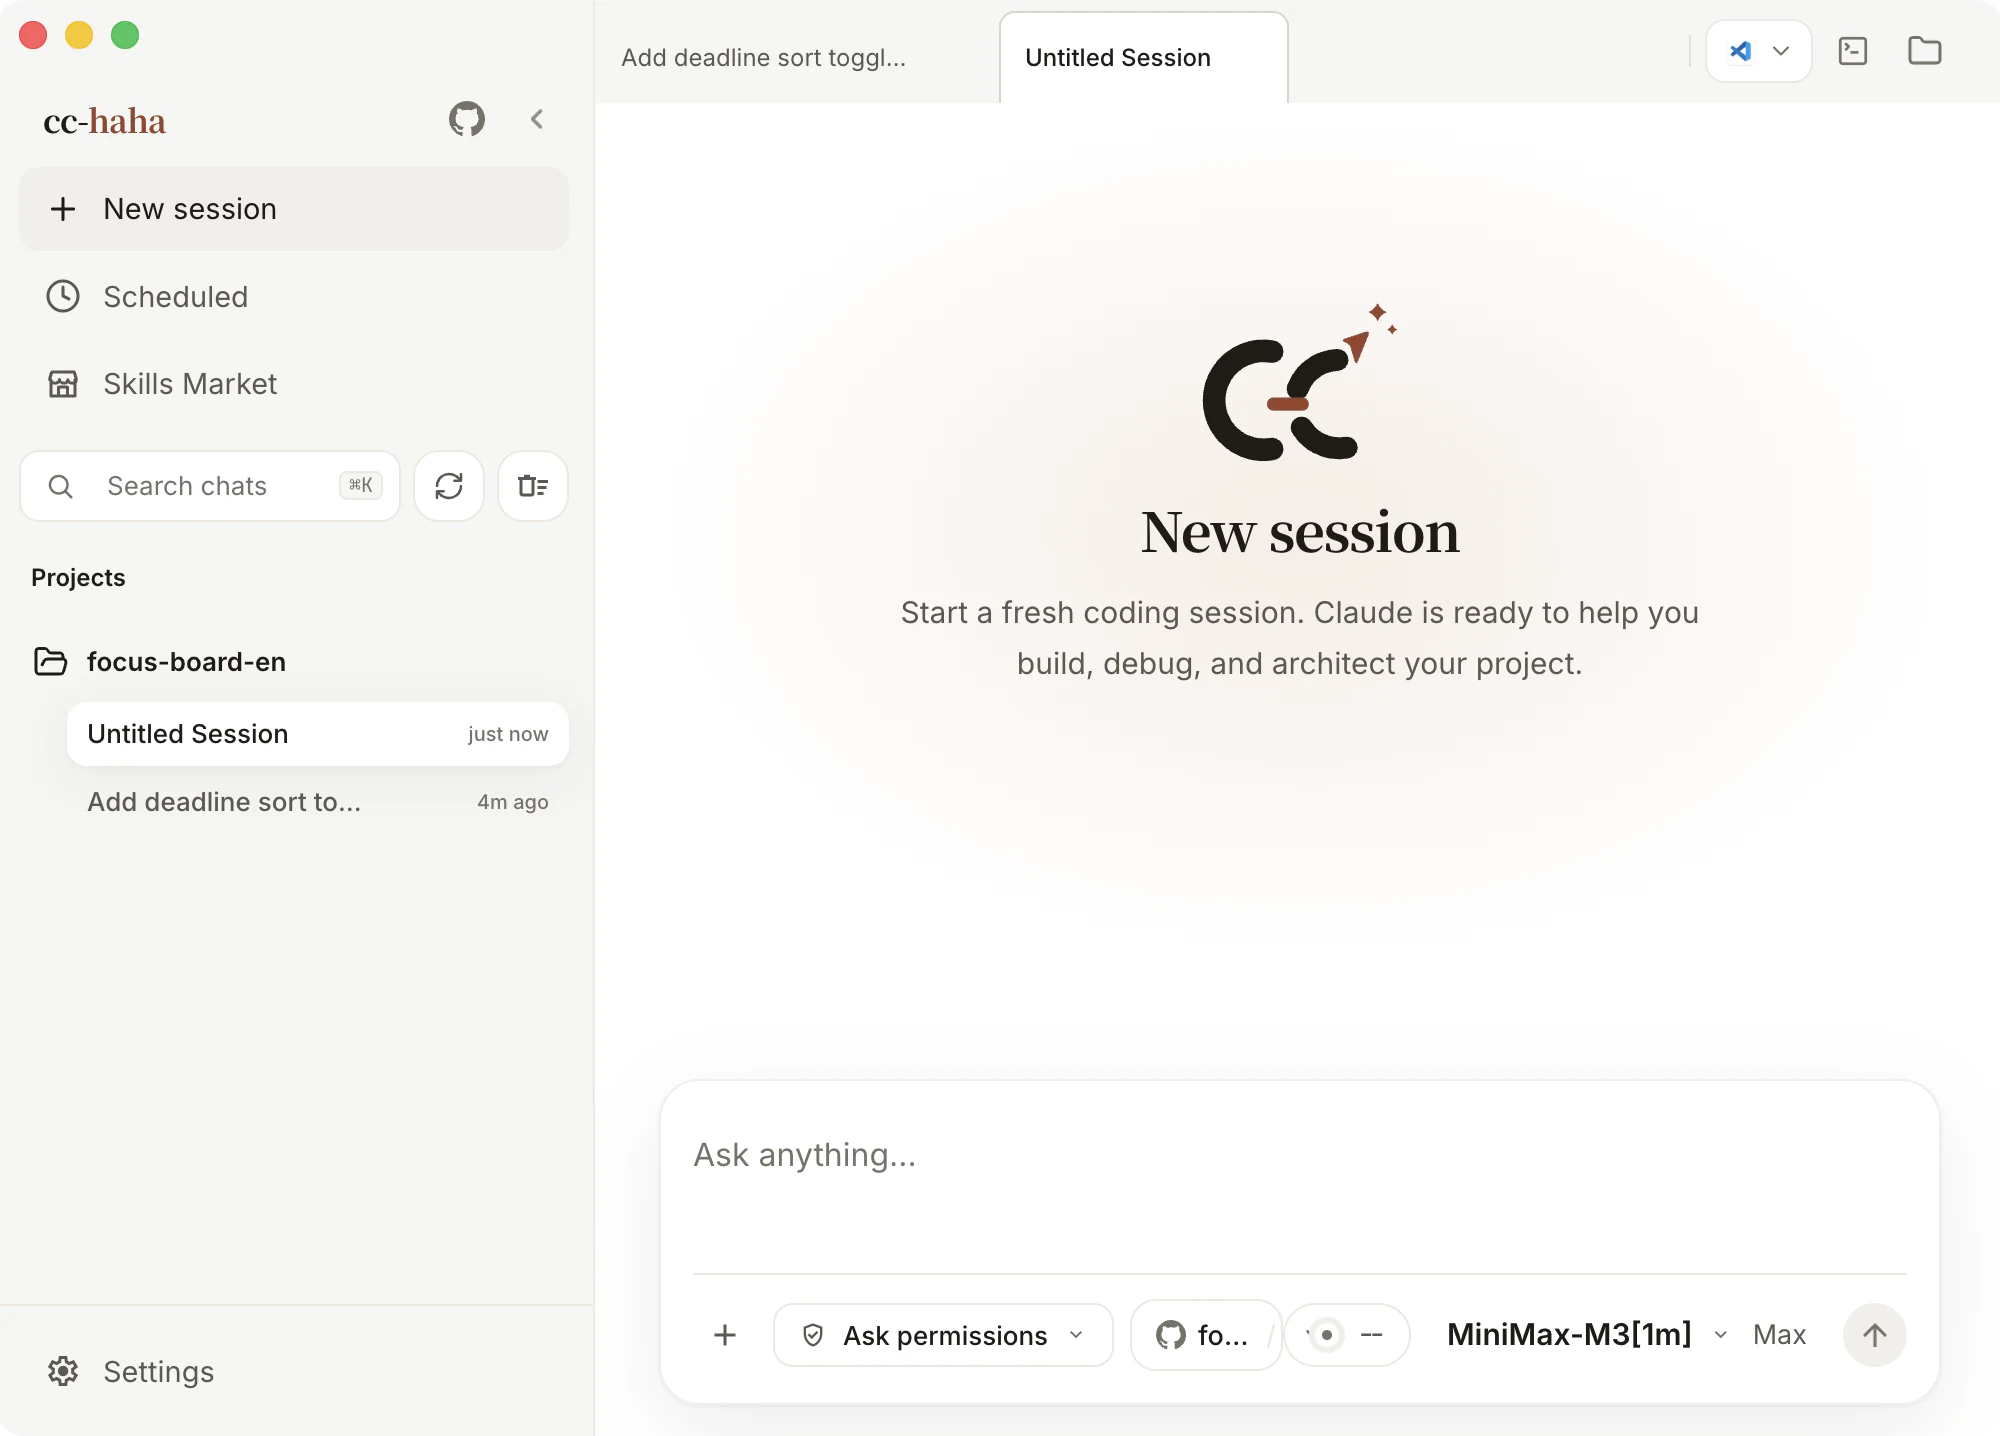
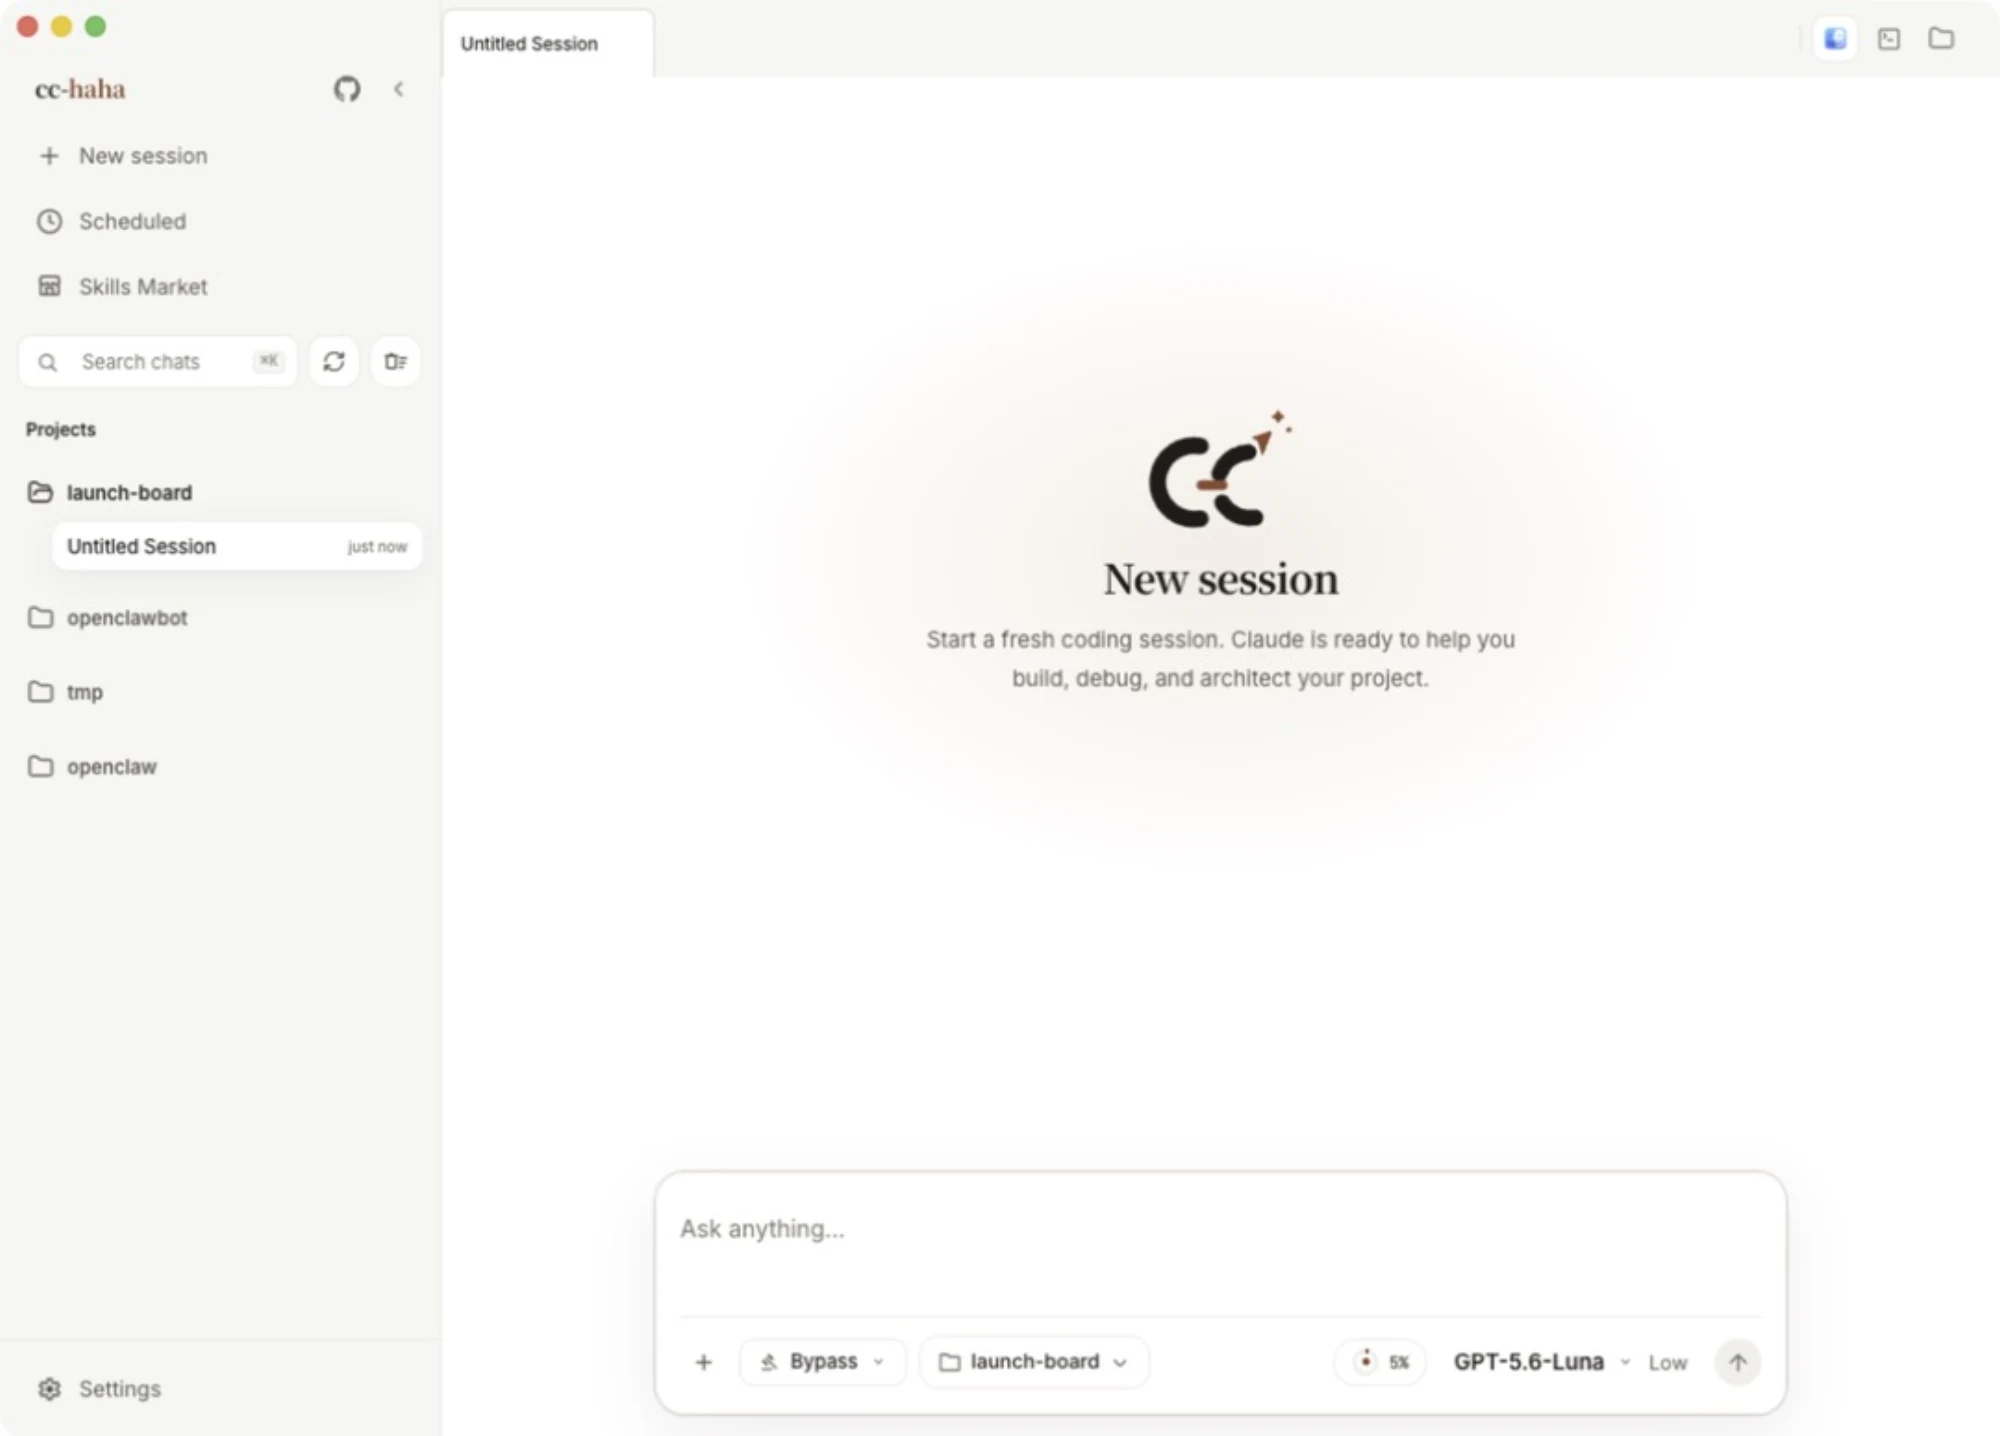
docs: refresh bilingual product screenshots

diff --git a/site/src/pages/home/content.js b/site/src/pages/home/content.js
@@ -1,15 +1,17 @@
+import sessionNewZh from '../../../../docs/images/app/zh-CN/session-new.webp'
 import sessionMainZh from '../../../../docs/images/app/zh-CN/session-main.webp'
 import workspaceDiffZh from '../../../../docs/images/app/zh-CN/workspace-diff.webp'
 import workspacePreviewZh from '../../../../docs/images/app/zh-CN/workspace-preview.webp'
-import providerAddZh from '../../../../docs/images/app/zh-CN/settings-provider-add.webp'
+import modelPickerZh from '../../../../docs/images/app/zh-CN/model-picker.webp'
 import skillMarketZh from '../../../../docs/images/app/zh-CN/skill-market.webp'
 import scheduleCreateZh from '../../../../docs/images/app/zh-CN/schedule-create.webp'
 import h5SessionZh from '../../../../docs/images/app/zh-CN/h5-session.webp'
 import petDesktopZh from '../../../../docs/images/app/zh-CN/pet-desktop.webp'
+import sessionNewEn from '../../../../docs/images/app/en/session-new.webp'
 import sessionMainEn from '../../../../docs/images/app/en/session-main.webp'
 import workspaceDiffEn from '../../../../docs/images/app/en/workspace-diff.webp'
 import workspacePreviewEn from '../../../../docs/images/app/en/workspace-preview.webp'
-import providerAddEn from '../../../../docs/images/app/en/settings-provider-add.webp'
+import modelPickerEn from '../../../../docs/images/app/en/model-picker.webp'
 import skillMarketEn from '../../../../docs/images/app/en/skill-market.webp'
 import scheduleCreateEn from '../../../../docs/images/app/en/schedule-create.webp'
 import h5SessionEn from '../../../../docs/images/app/en/h5-session.webp'
@@ -25,20 +27,22 @@ import huihui from '../../../../docs/images/mascots/huihui.png'
 const localizedImages = {
   zh: {
     h5Session: h5SessionZh,
+    modelPicker: modelPickerZh,
     petDesktop: petDesktopZh,
-    providerAdd: providerAddZh,
     scheduleCreate: scheduleCreateZh,
     sessionMain: sessionMainZh,
+    sessionNew: sessionNewZh,
     skillMarket: skillMarketZh,
     workspaceDiff: workspaceDiffZh,
     workspacePreview: workspacePreviewZh
   },
   en: {
     h5Session: h5SessionEn,
+    modelPicker: modelPickerEn,
     petDesktop: petDesktopEn,
-    providerAdd: providerAddEn,
     scheduleCreate: scheduleCreateEn,
     sessionMain: sessionMainEn,
+    sessionNew: sessionNewEn,
     skillMarket: skillMarketEn,
     workspaceDiff: workspaceDiffEn,
     workspacePreview: workspacePreviewEn
@@ -55,7 +59,7 @@ export const content = {
       primary: '下载桌面端',
       secondary: '三步跑通第一条会话',
       badges: ['macOS · Windows · Linux', '开源免费', '数据留在本机'],
-      caption: '真实截图：一条会话读完项目、改了三个文件，改动就在对话里逐行摊开。'
+      caption: '真实 App 的空会话首屏：100% 界面缩放、纯白主题，项目、权限与模型一眼可见。'
     },
     capabilities: {
       title: '它替你做的事',
@@ -72,12 +76,19 @@ export const content = {
       ]
     },
     tour: {
-      title: '所有截图都拍自 v0.5.0，没有概念图',
-      lede: '装好之后你看到的就是这个样子。',
+      title: '真实 App、真实任务，没有概念图',
+      lede: '截图统一使用纯白主题与 100% 界面缩放；任务由 ChatGPT 官方服务商的 GPT-5.6-Luna 在真实测试项目中执行。',
       tabs: [
         {
+          id: 'start',
+          label: '开始',
+          title: '第一眼，就是空会话',
+          body: '刚打开项目时不塞演示内容。输入框、权限模式、运行位置和 GPT-5.6-Luna 都在首屏直接可见。',
+          image: localizedImages.zh.sessionNew
+        },
+        {
           id: 'session',
-          label: '会话',
+          label: '执行',
           title: '说一句话，看它一步步做完',
           body: '选好项目、权限模式和模型就能开工。它读了哪些文件、执行了什么命令、改了哪一行，全都留在对话里。',
           image: localizedImages.zh.sessionMain
@@ -100,8 +111,8 @@ export const content = {
           id: 'models',
           label: '模型',
           title: '接哪个模型，你自己定',
-          body: 'Claude / ChatGPT / Grok 官方账号直接登录，也可以接 DeepSeek、Kimi、智谱、MiniMax，或者本地跑的 LM Studio 与 Ollama。',
-          image: localizedImages.zh.providerAdd
+          body: 'Claude / ChatGPT / Grok 官方账号直接登录，每条会话再选具体模型；这次真实任务使用 ChatGPT 官方与 GPT-5.6-Luna。',
+          image: localizedImages.zh.modelPicker
         },
         {
           id: 'skills',
@@ -190,7 +201,7 @@ export const content = {
       primary: 'Download the app',
       secondary: 'Run your first session',
       badges: ['macOS · Windows · Linux', 'Open source', 'Your data stays local'],
-      caption: 'A real screenshot: one session read the project, changed three files, and laid every edit out inline.'
+      caption: 'The real empty-session screen at 100% UI zoom in Pure White, with project, permissions and model visible up front.'
     },
     capabilities: {
       title: 'What it does for you',
@@ -207,13 +218,14 @@ export const content = {
       ]
     },
     tour: {
-      title: 'Every screenshot is v0.5.0. No concept art.',
-      lede: 'What you see is what opens after install.',
+      title: 'Real app, real tasks, no concept art',
+      lede: 'Every shot uses Pure White at 100% UI zoom. The task flow ran in a real test project through ChatGPT Official and GPT-5.6-Luna.',
       tabs: [
-        { id: 'session', label: 'Session', title: 'Say it once. Watch it get done.', body: 'Pick a project, a permission mode and a model. Every file it read, every command it ran and every line it changed stays in the thread.', image: localizedImages.en.sessionMain },
+        { id: 'start', label: 'Start', title: 'The first screen is an empty session', body: 'No staged demo content. The composer, permission mode, working location and GPT-5.6-Luna are visible before the first task starts.', image: localizedImages.en.sessionNew },
+        { id: 'session', label: 'Run', title: 'Say it once. Watch it get done.', body: 'Pick a project, a permission mode and a model. Every file it read, every command it ran and every line it changed stays in the thread.', image: localizedImages.en.sessionMain },
         { id: 'review', label: 'Review', title: 'Know exactly what changed', body: 'The workspace lists this turn’s edits; open any file for a syntax-highlighted diff. Don’t like it? Undo the whole turn.', image: localizedImages.en.workspaceDiff },
         { id: 'preview', label: 'Preview', title: 'Check the page without leaving', body: 'Open your dev server in the built-in browser, see the result immediately, and bring screenshots or picked elements back into the thread.', image: localizedImages.en.workspacePreview },
-        { id: 'models', label: 'Models', title: 'Bring your own model', body: 'Sign in to Claude, ChatGPT or Grok, or point it at DeepSeek, Kimi, Zhipu, MiniMax — or LM Studio and Ollama running on your own machine.', image: localizedImages.en.providerAdd },
+        { id: 'models', label: 'Models', title: 'Bring your own model', body: 'Sign in to Claude, ChatGPT or Grok, then choose the exact model for each session. This real run uses ChatGPT Official with GPT-5.6-Luna.', image: localizedImages.en.modelPicker },
         { id: 'skills', label: 'Skills', title: 'Missing a trick? Install it.', body: 'The marketplace aggregates ClawHub and SkillHub, and labels every skill with its source and safety status before you install.', image: localizedImages.en.skillMarket },
         { id: 'schedule', label: 'Schedule', title: 'Set the time. It comes back with results.', body: 'Choose a cadence, model, directory and notification. Jobs run in their own sessions and every run leaves a record.', image: localizedImages.en.scheduleCreate },
         { id: 'remote', label: 'Mobile', title: 'Step away, keep the session', body: 'Scan the QR code and continue in your phone browser. Locking the screen won’t kill a running task.', image: localizedImages.en.h5Session }

diff --git a/README.md b/README.md
@@ -34,7 +34,7 @@ Claude Code Haha is a **desktop Claude Code workspace** for macOS, Windows, and 
 
 The Claude Code Haha desktop app brings sessions, multi-project navigation, branch / Worktree controls, file changes, diff review, permission approval, model setup, and remote access into one graphical workspace for daily development beyond the terminal.
 
-v0.5.0 shipped a full UI redesign — six colour themes that can follow your system's light/dark setting. All six shots below are from a real v0.5.0 build.
+Every screenshot below comes from the real desktop app in Pure White at 100% UI zoom. The task flow ran in a real `launch-board` test project through ChatGPT Official and GPT-5.6-Luna.
 
 <p align="center">
   <a href="https://github.com/NanmiCoder/cc-haha/releases"><img src="https://img.shields.io/badge/⬇_Download_Desktop-macOS_%7C_Windows_%7C_Linux-FF7A00?style=for-the-badge" alt="Download Desktop"></a>
@@ -44,14 +44,16 @@ v0.5.0 shipped a full UI redesign — six colour themes that can follow your sys
 
 <table>
   <tr>
-    <td align="center" width="33%"><img src="docs/images/app/en/session-main.webp" alt="Desktop session view"><br><b>Say it once, watch it finish</b><br><sub>Tool calls and every edit stay in the thread</sub></td>
-    <td align="center" width="33%"><img src="docs/images/app/en/workspace-diff.webp" alt="Workspace diff review"><br><b>See exactly what changed</b><br><sub>Syntax-highlighted diffs; you decide what lands</sub></td>
-    <td align="center" width="33%"><img src="docs/images/app/en/workspace-preview.webp" alt="Built-in browser previewing the page that was just changed"><br><b>Verify on the spot</b><br><sub>Open your dev server inside the app</sub></td>
+    <td align="center" width="50%"><img src="docs/images/app/en/session-new.webp" alt="Empty desktop session before the first task"><br><b>Start with a clear, empty session</b><br><sub>Project, permissions and GPT-5.6-Luna stay visible</sub></td>
+    <td align="center" width="50%"><img src="docs/images/app/en/session-main.webp" alt="Real task running with the Activity panel open"><br><b>Follow the task as it runs</b><br><sub>Tool calls and stage-by-stage progress stay in view</sub></td>
   </tr>
   <tr>
-    <td align="center" width="33%"><img src="docs/images/app/en/session-dark.webp" alt="Session view in the dark theme"><br><b>Six themes, follows the system</b><br><sub>Light and dark, six palettes in all</sub></td>
-    <td align="center" width="33%"><img src="docs/images/app/en/skill-market.webp" alt="Skill marketplace"><br><b>Missing a trick? Install it</b><br><sub>Source and safety status shown up front</sub></td>
-    <td align="center" width="33%"><img src="docs/images/app/en/pet-desktop.webp" alt="Desktop pet settings with the floating pet"><br><b>Company while it works</b><br><sub>Dada, Huhu, Bubu and Huihui follow the task</sub></td>
+    <td align="center" width="50%"><img src="docs/images/app/en/workspace-diff.webp" alt="Workspace diff review"><br><b>See exactly what changed</b><br><sub>A focused, full-width syntax-highlighted diff</sub></td>
+    <td align="center" width="50%"><img src="docs/images/app/en/workspace-preview.webp" alt="Built-in browser previewing the page that was just changed"><br><b>Verify on the spot</b><br><sub>The real edited page in the built-in browser</sub></td>
+  </tr>
+  <tr>
+    <td align="center" width="50%"><img src="docs/images/app/en/model-picker.webp" alt="Model picker showing ChatGPT Official and GPT-5.6-Luna"><br><b>Choose the exact model</b><br><sub>ChatGPT Official with GPT-5.6-Luna in a real session</sub></td>
+    <td align="center" width="50%"><img src="docs/images/app/en/skill-market.webp" alt="Skill marketplace"><br><b>Missing a trick? Install it</b><br><sub>Source and safety status shown up front</sub></td>
   </tr>
 </table>
 

diff --git a/docs/en/desktop/settings.md b/docs/en/desktop/settings.md
@@ -35,7 +35,7 @@ The tab you'll open most often — everything about how the app feels.
 - **UI Zoom** — scale the whole interface, also bound to `⌘+` / `⌘-`, with `⌘0` back to 100%.
 - **Data Storage Location** — an advanced, rarely-touched setting. Defaults to the system directory `~/.claude`, or point it at an absolute path of your own. After switching, sessions, skills, MCP, plugins, and provider config are all read from the new directory; it needs a restart, and the two directories are never merged or migrated automatically.
 
-![The same session in the Ink Night dark theme](../../images/app/en/session-dark.webp)
+Product screenshots in this guide consistently use the **Pure White** theme so the interface can be compared without palette changes.
 
 ## H5 Access
 

diff --git a/docs/desktop/settings.md b/docs/desktop/settings.md
@@ -35,7 +35,7 @@ order: 6
 - **界面缩放** — 整体放大缩小，也可以用 `⌘+` / `⌘-` 快捷键，`⌘0` 回到 100%。
 - **数据存储位置** — 低频高级设置。默认用系统目录 `~/.claude`，也可以改成你指定的绝对路径。切换后会话记录、技能、MCP、插件、服务商配置全部从新目录读取，需要重启应用生效，两个目录之间不会自动合并或迁移。
 
-![同一条会话在「墨夜」深色主题下的样子](../images/app/zh-CN/session-dark.webp)
+本文的产品截图统一使用「纯白」主题，避免不同配色影响界面对比。
 
 ## H5 访问
 
